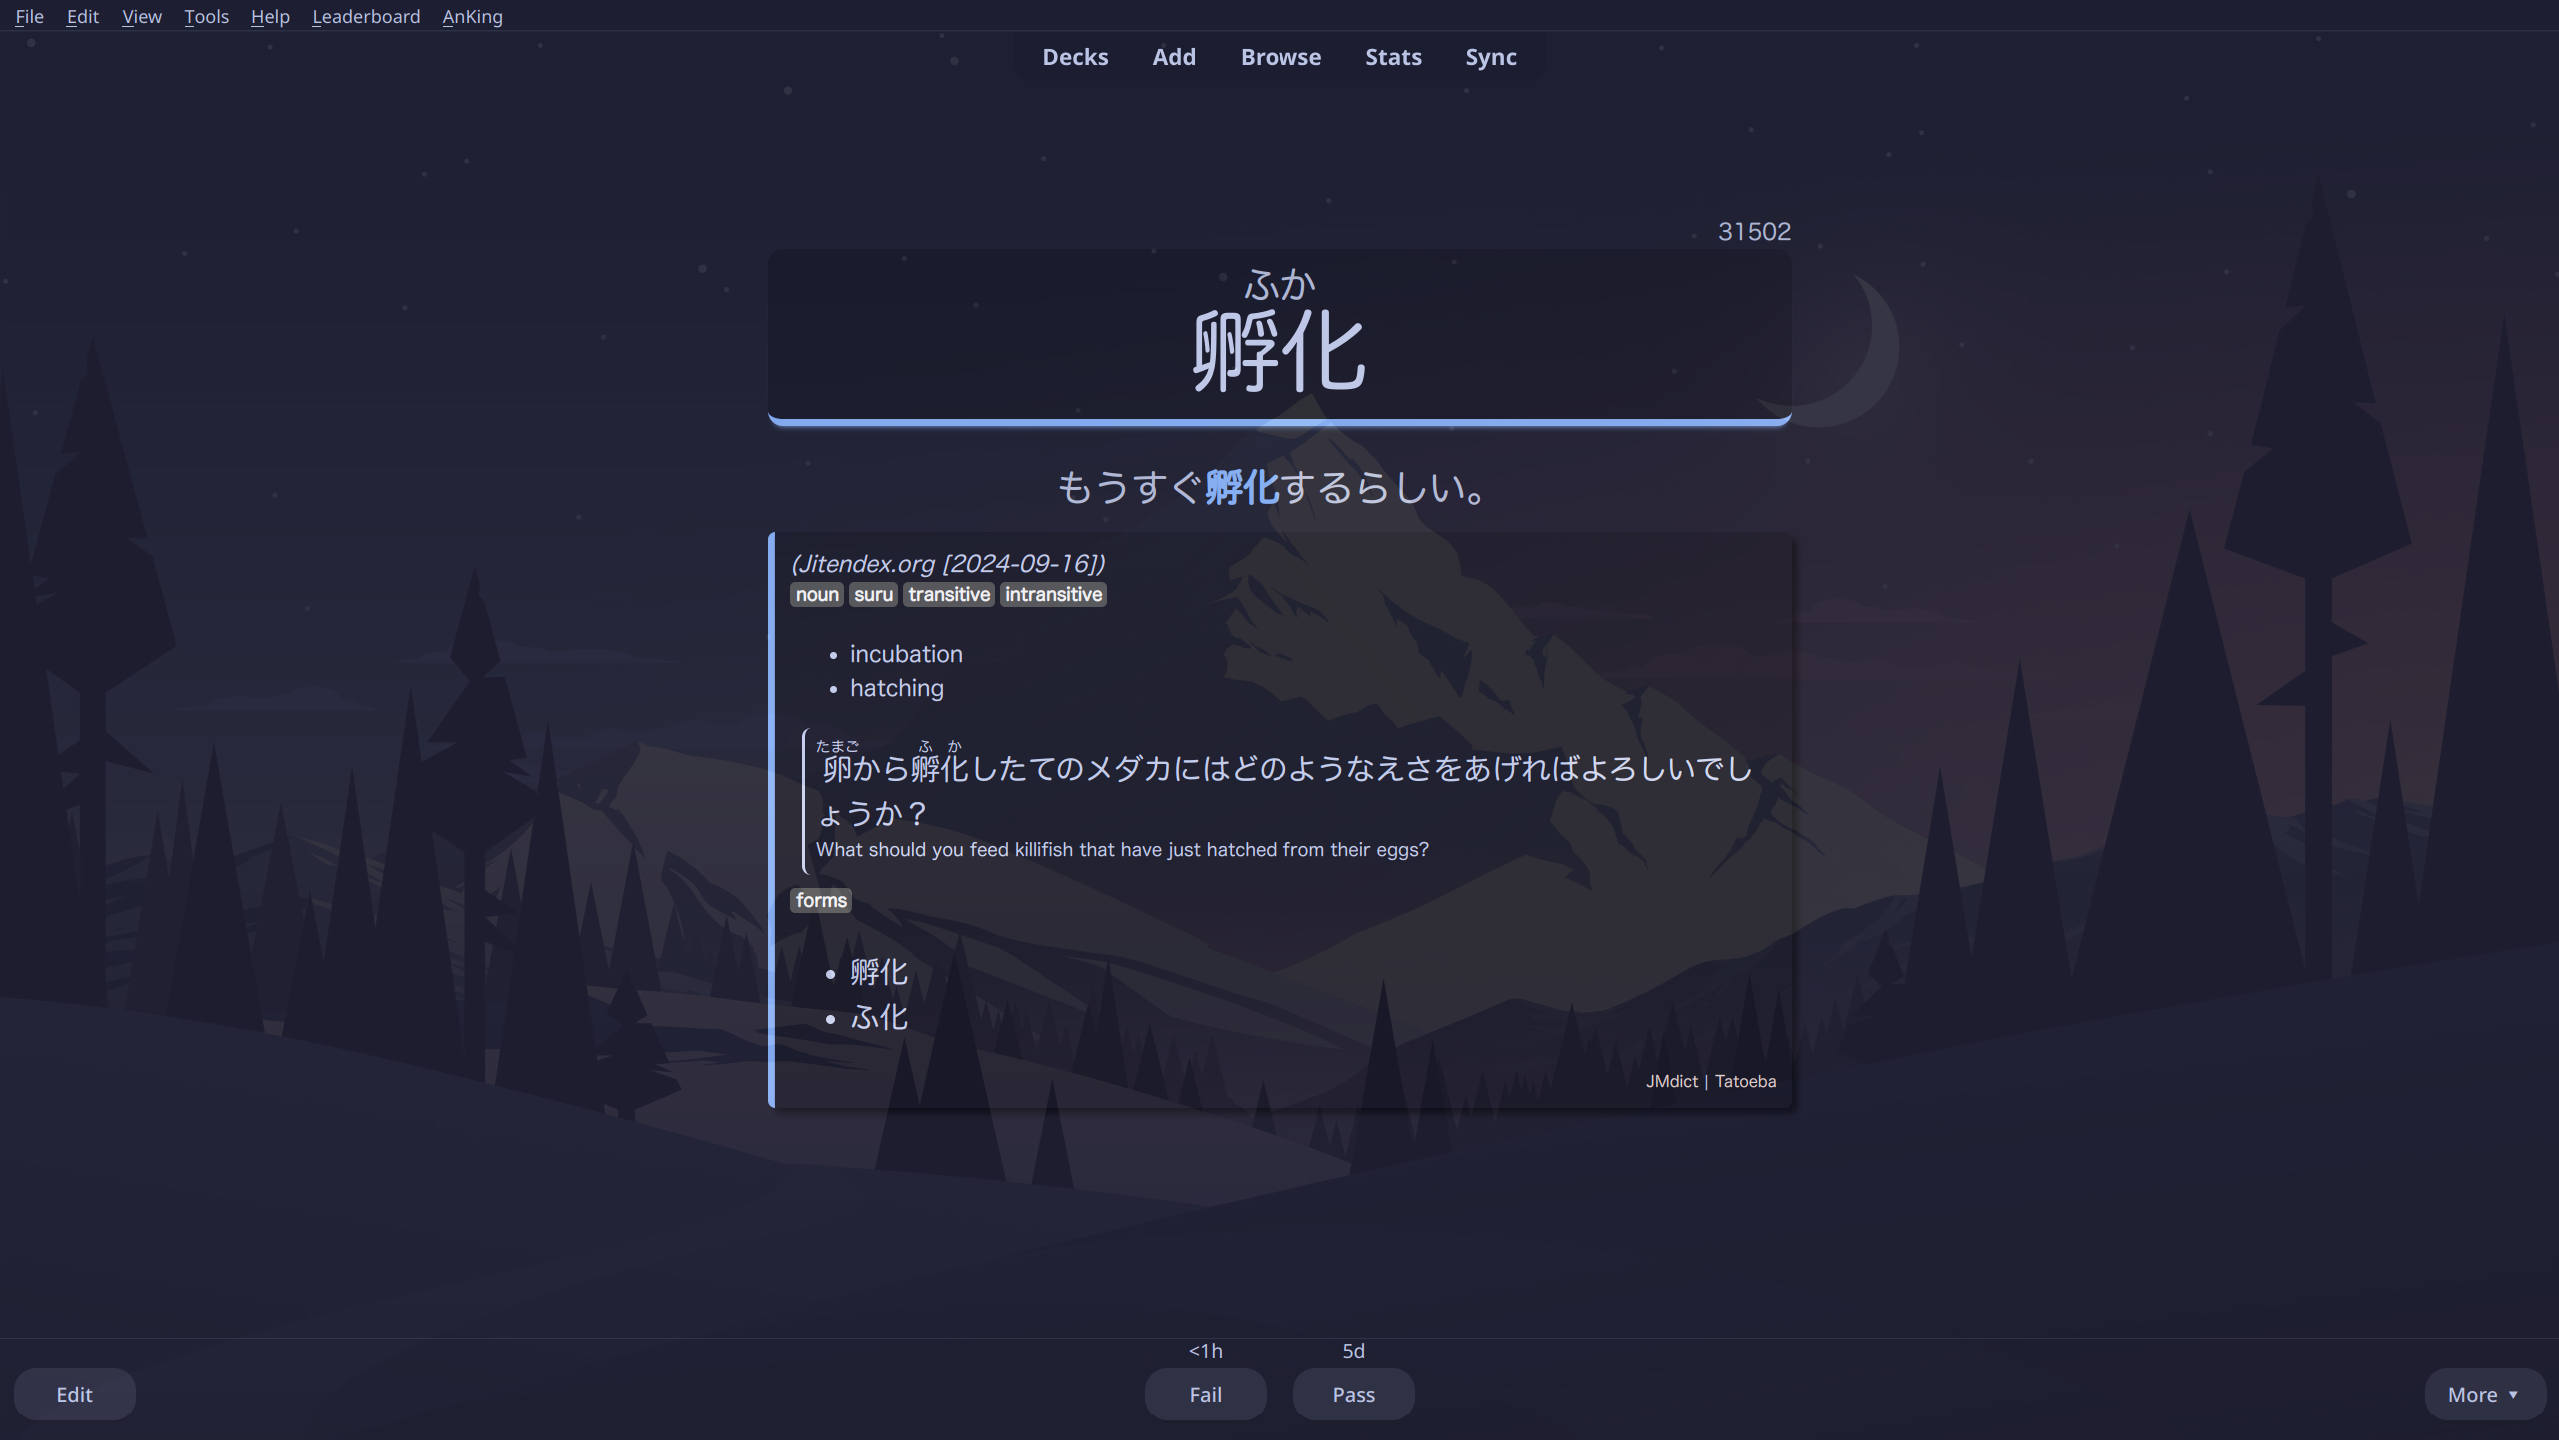
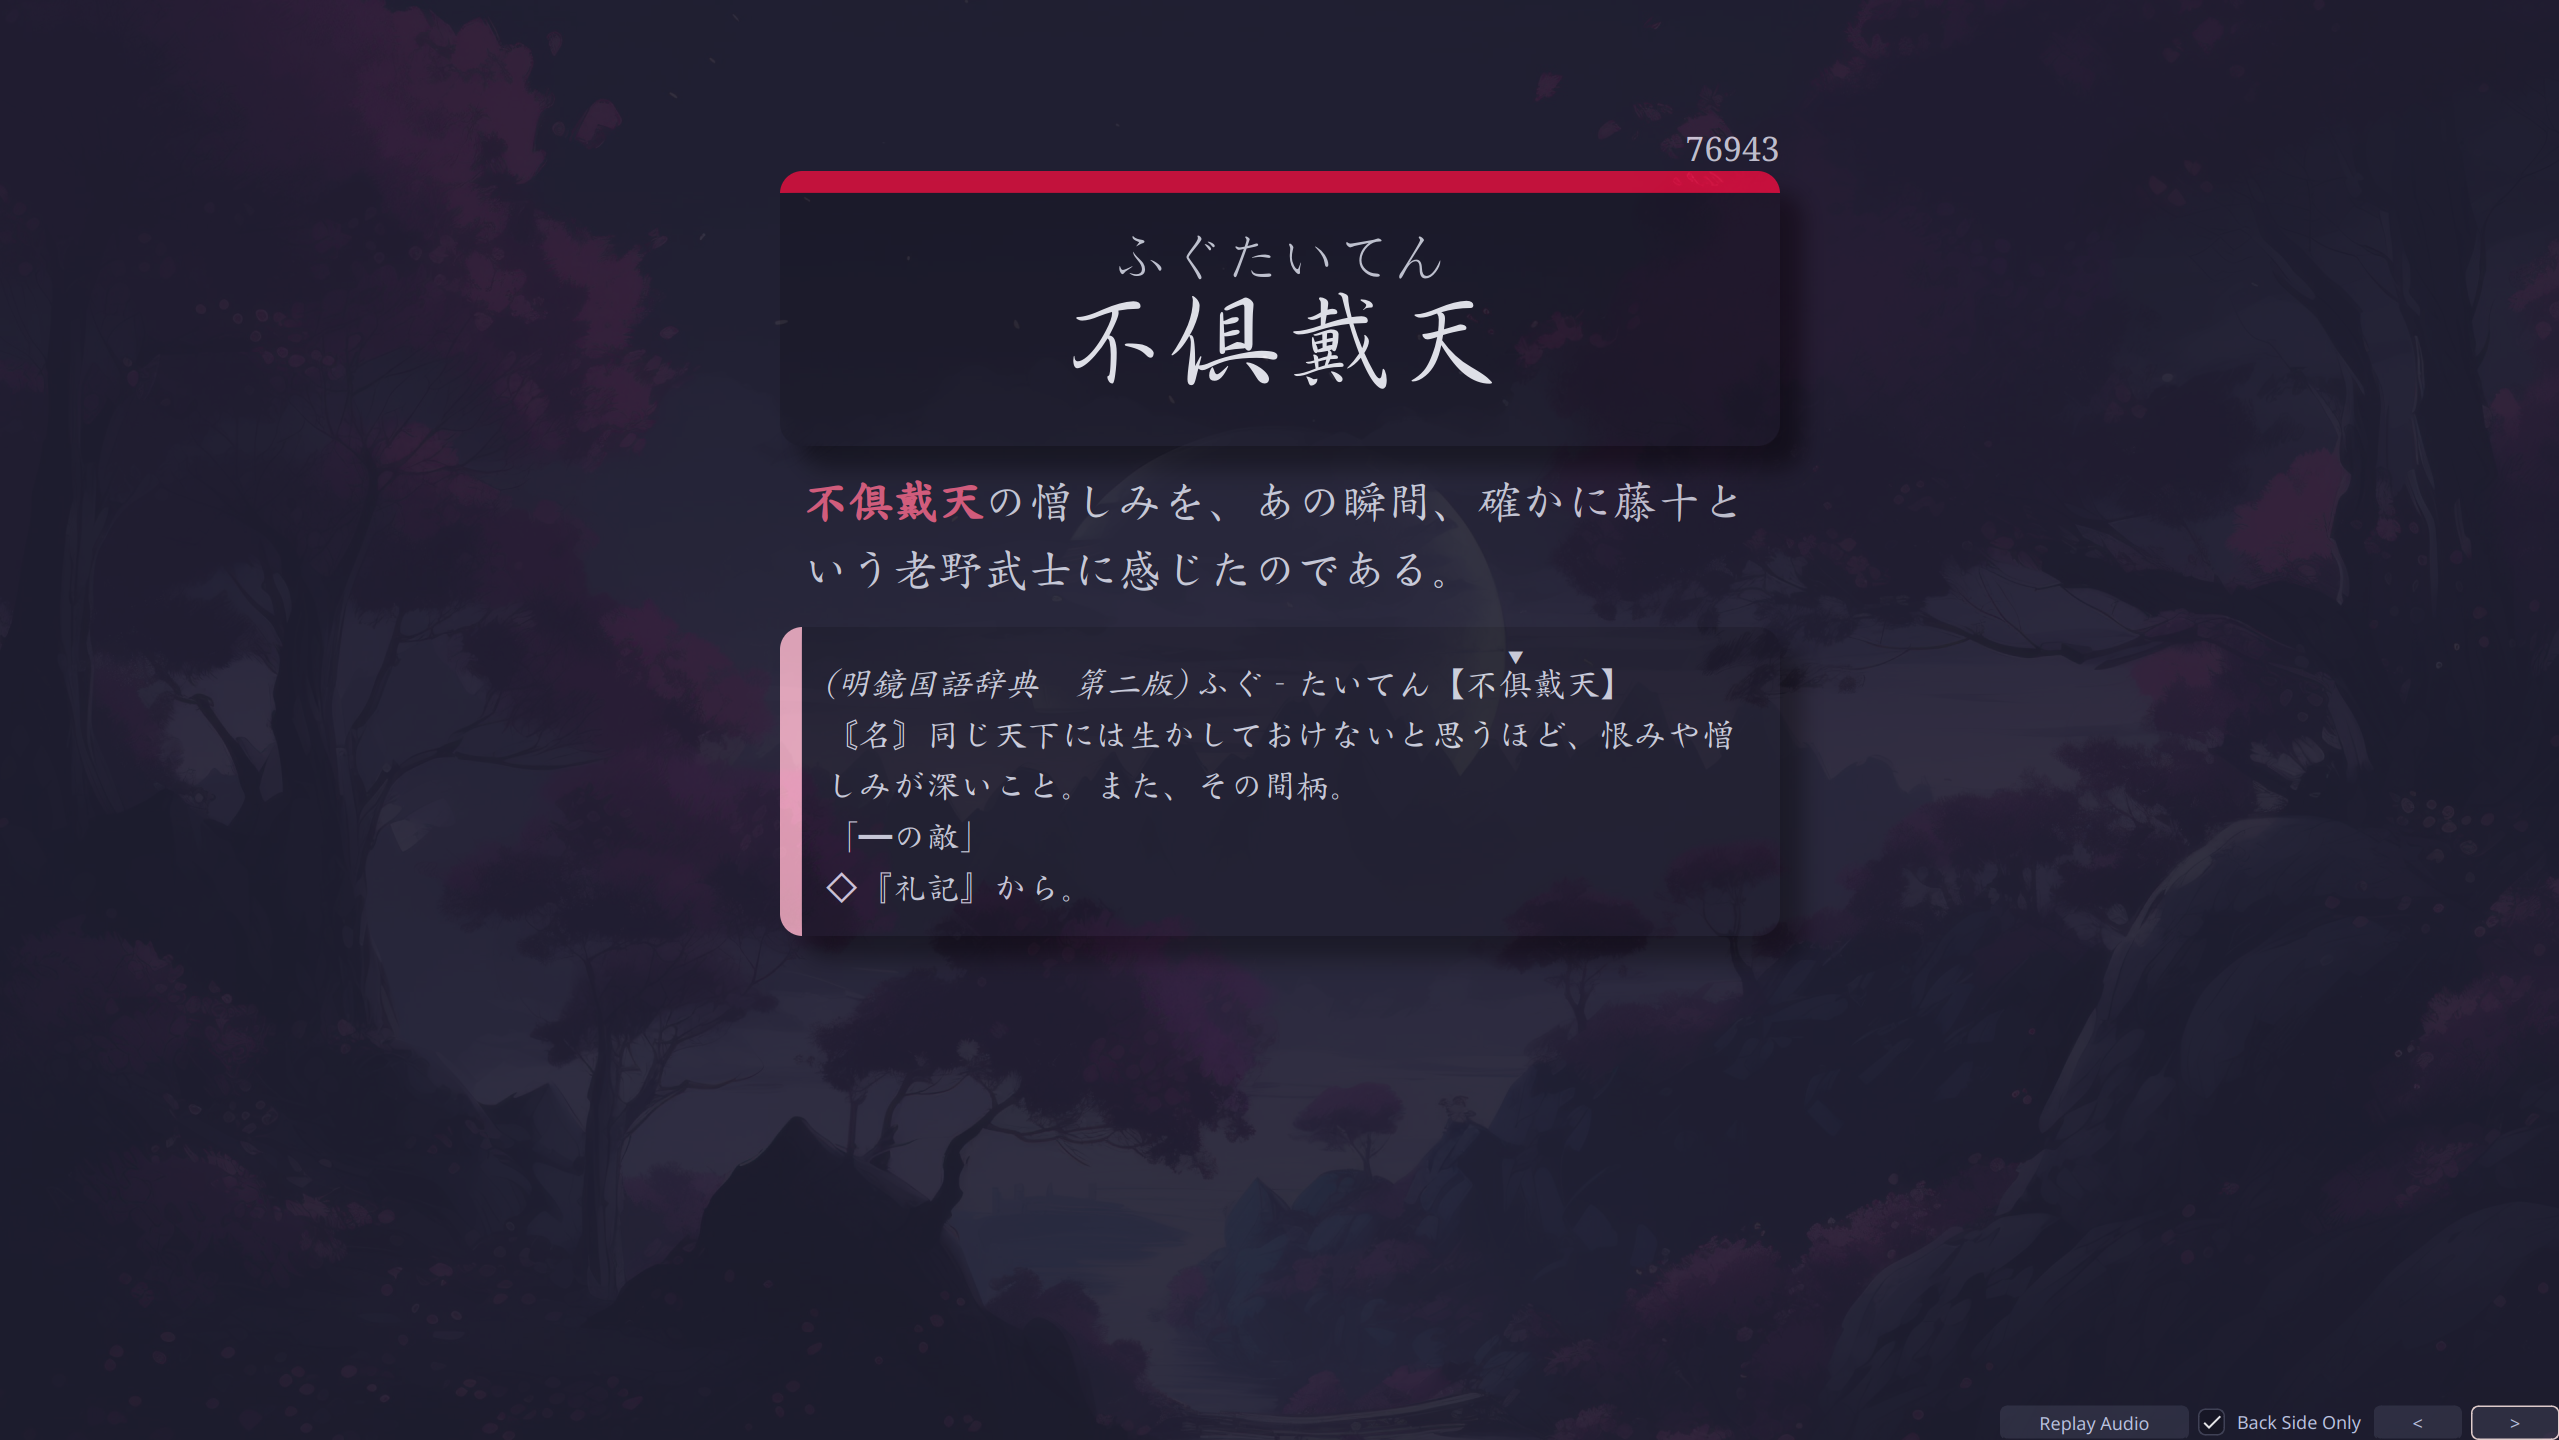
Update

diff --git a/styling.css b/styling.css
@@ -1,70 +1,90 @@
-.card {
-    font-family: "Hiragino Maru Gothic ProN";
-    text-align: center;
+:root {
+ --accent-color: #d20f39;
 
-    margin: 5% 30% 5% 30%;
+ --text-primary-color: #eff1f5;
+ --text-secondary-color: #ccd0da;
+
+ --background-color: #181825;
+ --shadow-color: rgba(0, 0, 0, 0.5);
+
+ --gyousho-font: "DFGyoSho Pro-5";
+ --kyoukasho-font: "DFKyoKaSho Pro-5";
+ --kaisho-font: "DFKaiSho Pro-5 W5";
+ --english-font: "serif";
 }
 
-#word {
-    font-size: 60px;
-    color: #cdd6f4;
-    background: #181825;
-
-    border-bottom: 5px solid #89b4fa;
-    border-radius: 0 0 10px 10px;
-
-    box-shadow: 0 4px 4px -4px #89b4fa;
-}
-
-#reading {
-    font-size: 25px;
-    color: #bac2de;
-    background: #181825;
-
-    margin: 0 0 -15px 0;
-
-    border-radius: 10px 10px 0 0;
-}
-
-#definition {
-    font-size: 15px;
-    color: #cdd6f4;
-    background: #181825;
-
-    padding: 10px;
-
-    border-left: 5px solid #89b4fa;
-    border-radius: 5px;
-
-    box-shadow: 4px 4px 4px rgba(0, 0, 0, 0.5);
-}
-
-#sentence {
-    font-size: 25px;
-    color: #bac2de;
-    opacity: 0%;
-
-    padding: 10px 0 10px 0;
-
-    text-align: left;
-    display: inline-block;
-}
-
-#sentence:hover {
-    opacity: 100%;
+#main {
+ margin: 5% 30% 5% 30%;
+ text-align: center;
 }
 
 #frequency {
-    font-size: 15px;
-    color: #bac2de;
+ font-family: var(--english-font);
+ font-size: 1.5rem;
 
-    text-align: right;
+ color: var(--text-secondary-color);
+
+ text-align: right;
+}
+
+#word {
+ font-family: var(--gyousho-font);
+ font-size: 5rem;
+
+ color: var(--text-primary-color);
+
+ vertical-align: middle;
+}
+
+#reading {
+ font-family: var(--kyoukasho-font);
+ font-size: 2.5rem;
+
+ color: var(--text-secondary-color);
+
+ vertical-align: middle;
+ margin: 0 0 -2rem 0;
+}
+
+#term {
+ background: var(--background-color);
+
+ border-radius: 1rem;
+ border-top: 1rem solid var(--accent-color);
+ box-shadow: 1rem 1rem 1rem var(--shadow-color);
+
+ padding: 1rem;
+}
+
+#sentence {
+ font-family: var(--kaisho-font);
+ font-size: 2rem;
+
+ color: var(--text-secondary-color);
+
+ padding: 1rem;
+ text-align: left;
+}
+
+#definition {
+ font-family: var(--kaisho-font);
+ font-size: 1.5rem;
+
+ color: var(--text-secondary-color);
+ background: var(--background-color);
+
+ border-radius: 1rem;
+ border-left: 1rem solid color-mix(in srgb, var(--accent-color) 33%, var(--text-primary-color));
+ box-shadow: 1rem 1rem 1rem var(--shadow-color);
+
+ padding: 1rem;
+	text-align: left;
 }
 
 #audio {
-    display: none;
+ display: none;
 }
 
 b {
-    color: #89b4fa;
+	color: color-mix(in srgb, var(--accent-color) 66%, var(--text-primary-color));
 }

diff --git a/back_template.html b/back_template.html
@@ -1,6 +1,19 @@
-<div id="frequency">{{Frequency}}</div>
-<div id="reading">{{Reading}}</div>
-<div id="word">{{Word}}</div>
-<div id="sentence" style="opacity: 100%;">{{Sentence}}</div>
-<div id="audio">{{Audio}}</div>
-<div id="definition">{{Definition}}</div>
+<div id="main">
+ <div id="frequency">{{Frequency}}</div>
+ <div id="term">
+  <div id="reading">{{Reading}}</div>
+  <div id="word">{{Word}}</div>
+ </div>
+ <div id="sentence">{{Sentence}}</div>
+ <div id="definition">{{Definition}}</div>
+ <div id="audio">{{Audio}}</div>
+</div>
+
+<script>
+ var sentenceDiv = document.getElementById('sentence');
+ if (sentenceDiv && !sentenceDiv.innerHTML.trim()) {
+  var br = document.createElement('br');
+  sentenceDiv.parentNode.insertBefore(br, sentenceDiv.nextSibling);
+  sentenceDiv.style.display = 'none';
+ }
+</script>

diff --git a/front_template.html b/front_template.html
@@ -1,4 +1,6 @@
-<div id="frequency" style="visibility: hidden;">{{Frequency}}</div>
-<div id="reading" style="visibility: hidden;">{{Reading}}</div>
-<div id="word" style="border-radius: 10px;">{{Word}}</div>
-<div id="sentence">{{Sentence}}</div>
+<div id="main">
+ <div id="frequency" style="visibility: hidden;">{{Frequency}}</div>
+ <div id="term">
+  <div id="word">{{Word}}</div>
+ </div>
+</div>
